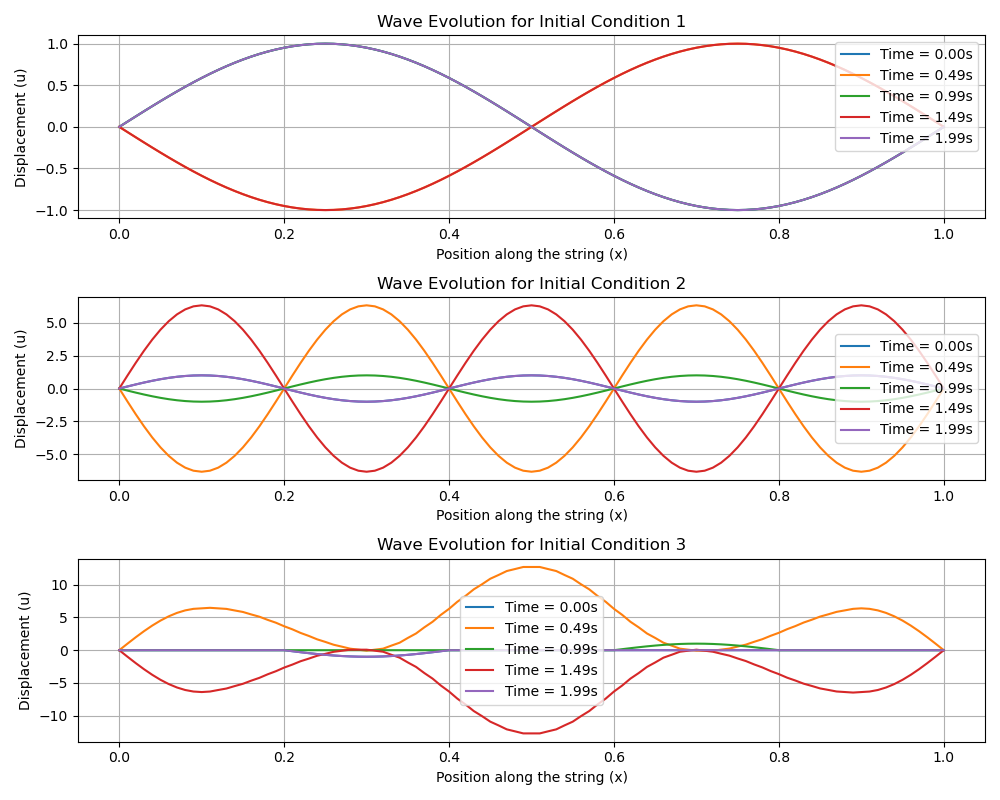
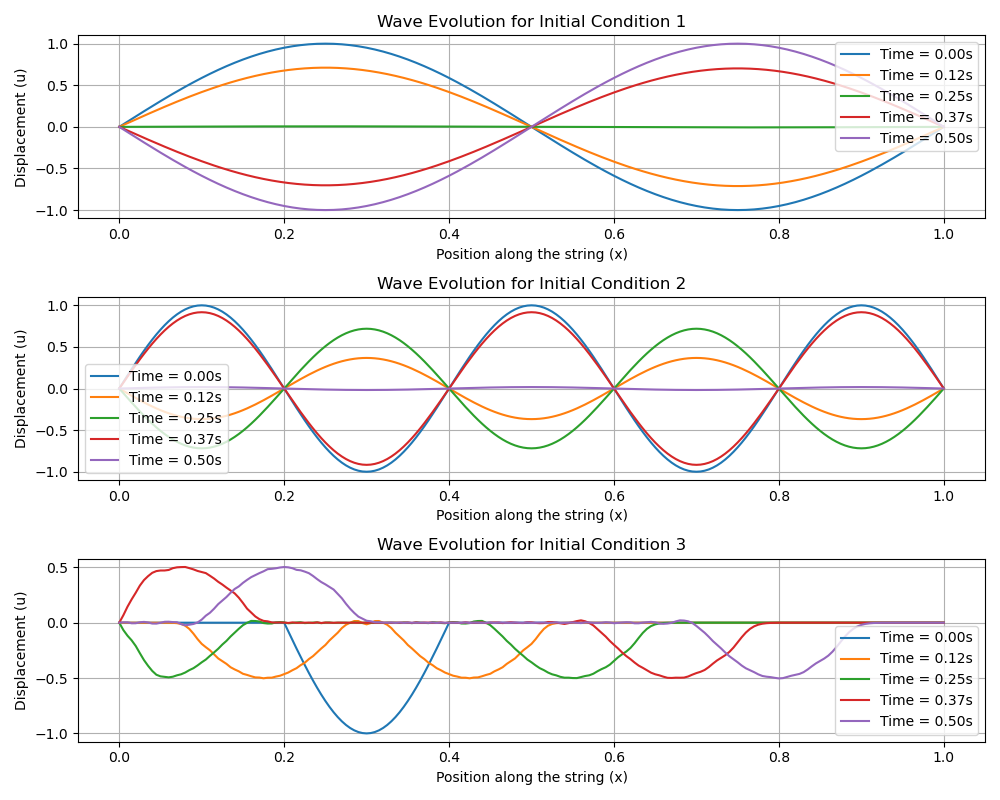
animation for string improved

diff --git a/src/vib_string.py b/src/vib_string.py
@@ -5,122 +5,105 @@ from numba import jit
 
 # Parameters
 L = 1.0  # Length of string
-N = 100  # Number of spatial points
+N = 200  # Number of spatial points
 c = 1.0  # Wave speed
-T = 2.0  # Total simulation time
-
+T = 0.5  # Total simulation time
 dx = L / N
-dt = 0.01
+dt = 0.001
 num_steps = int(T / dt)
 
 u = np.zeros((N + 1, 3))  # Three time layers (n-1, n, n+1)
 x = np.linspace(0, L, N + 1)
 
-
 def init_con_1(x):
-    """Initial condition 1: Sine wave with frequency 1."""
     return np.sin(2 * np.pi * x)
 
-
 def init_con_2(x):
-    """Initial condition 2: Sine wave with frequency 2.5."""
     return np.sin(5 * np.pi * x)
 
-
 def init_con_3(x):
-    """Initial condition 3: Sine wave in the range [1/5, 2/5]."""
     a = np.zeros_like(x)
-    mask = (1 / 5 <= x) & (x <= 2 / 5)  # Boolean mask for valid x values
-    a[mask] = np.sin(5 * np.pi * x[mask])  # Apply sine only where mask is True
+    mask = (1 / 5 <= x) & (x <= 2 / 5)
+    a[mask] = np.sin(5 * np.pi * x[mask])
     return a
 
-
 @jit(nopython=True)
-def time_stepping(u, c, dt, dx, initial_condition, num_steps):
-    """Perform time-stepping for the wave equation."""
+def time_stepping(u, c, dt, dx, initial_condition, num_steps, boundary='dirichlet'):
+    """Perform time-stepping with proper initialization."""
     u[:, 0] = initial_condition
-    history = np.zeros((N + 1, num_steps))  # Shape: (N + 1, num_steps)
+    u[:, 1] = initial_condition.copy()
+    
+    # Compute first step explicitly
+    for j in range(1, N):
+        u[j, 1] = u[j, 0] + 0.5 * ((c * dt / dx) ** 2) * (u[j + 1, 0] - 2 * u[j, 0] + u[j - 1, 0])
+    
+    history = np.zeros((N + 1, num_steps))
     history[:, 0] = u[:, 0]
-
-    for step in range(1, num_steps):
-        for j in range(1, N):  # Start from 1 to N-1 to avoid boundary issues
-            u[j, 2] = (2 * u[j, 1] - u[j, 0] +
-                       (c * dt / dx) ** 2 * (u[j + 1, 1] - 2 * u[j, 1] + u[j - 1, 1]))
-
-        u[0, 2] = 0  # Boundary condition at x=0
-        u[N, 2] = 0  # Boundary condition at x=L
-
+    history[:, 1] = u[:, 1]
+    
+    for step in range(2, num_steps):
+        for j in range(1, N):
+            u[j, 2] = (2 * u[j, 1] - u[j, 0] + (c * dt / dx) ** 2 * (u[j + 1, 1] - 2 * u[j, 1] + u[j - 1, 1]))
+        
+        if boundary == 'dirichlet':
+            u[0, 2] = 0
+            u[N, 2] = 0
+        elif boundary == 'neumann':
+            u[0, 2] = u[1, 2]  # Free end at x=0
+            u[N, 2] = u[N - 1, 2]  # Free end at x=L
+        
         u[:, 0] = u[:, 1]
         u[:, 1] = u[:, 2]
-
         history[:, step] = u[:, 1]
-
-    return history  # Return the complete history of states
-
+    
+    return history
 
 def run_simulation(u, x, c, dt, dx, init_cons, num_steps):
-    """Run the simulation with different initial conditions."""
     results = []
     for init_con in init_cons:
-        initial_condition = init_con(x)  
-        result = time_stepping(u, c, dt, dx, initial_condition, num_steps) 
+        initial_condition = init_con(x)
+        result = time_stepping(u, c, dt, dx, initial_condition, num_steps)
         results.append(result)
-
-    results = np.array(results)
-    print(results.shape)
-    return results
-
+    return np.array(results)
 
 def plot_wave_states(results, x, num_time_points=5):
-    """Plot wave states for each initial condition at evenly spaced time steps."""
     num_conditions = results.shape[0]
-    time_indices = np.linspace(0.0, results.shape[2] - 1, num_time_points, dtype=int)  # Evenly spaced indices
-
+    time_indices = np.linspace(0, results.shape[2] - 1, num_time_points, dtype=int)
     fig, axs = plt.subplots(num_conditions, 1, figsize=(10, 8))
-
     if num_conditions == 1:
-        axs = [axs]  # Ensure axs is iterable for a single subplot
-
+        axs = [axs]
+    
     for i in range(num_conditions):
         for t_idx in time_indices:
             axs[i].plot(x, results[i, :, t_idx], label=f'Time = {t_idx * dt:.2f}s')
-
         axs[i].set_title(f'Wave Evolution for Initial Condition {i + 1}')
         axs[i].set_xlabel('Position along the string (x)')
         axs[i].set_ylabel('Displacement (u)')
         axs[i].legend()
         axs[i].grid(True)
-
+    
     plt.tight_layout()
     plt.savefig('fig/wave_evolution.png')
     plt.show()
 
-
 def animate_wave(results, x, init_condition_index, filename):
-    """Animate the wave evolution for a given initial condition."""
     fig, ax = plt.subplots(figsize=(10, 6))
     ax.set_xlim(0, x[-1])
-    ax.set_ylim(-20, 20)  # Adjust y-limits based on expected wave heights
-    ax.set_title(
-        f'Wave Evolution for Initial Condition {init_condition_index + 1}')
+    y_min, y_max = results.min(), results.max()
+    ax.set_ylim(y_min * 1.2, y_max * 1.2)
+    ax.set_title(f'Wave Evolution for Initial Condition {init_condition_index + 1}')
     ax.set_xlabel('Position along the string (x)')
     ax.set_ylabel('Displacement (u)')
-    line, = ax.plot(x, results[init_condition_index, :, 0], color='b')  # Initial plot
-
+    line, = ax.plot(x, results[init_condition_index, :, 0], color='b')
+    
     def update(frame):
         line.set_ydata(results[init_condition_index, :, frame])
         return line,
-
-    ani = animation.FuncAnimation(
-        fig, update, frames=results.shape[2], blit=True)
-
-    # Save the animation as a GIF
-    ani.save(filename.replace('.mp4', '.gif'),
-             writer='pillow', fps=30)  
-
+    
+    ani = animation.FuncAnimation(fig, update, frames=results.shape[2], blit=True, interval=1)
+    ani.save(filename.replace('.mp4', '.gif'), writer='pillow')
 
 if __name__ == "__main__":
-    # Run simulation
     init_cons = [init_con_1, init_con_2, init_con_3]
     results = run_simulation(u, x, c, dt, dx, init_cons, num_steps)
     plot_wave_states(results, x)

diff --git a/src/gauss-seidel.py b/src/gauss-seidel.py
@@ -42,7 +42,7 @@ def gauss_seidel_simulation(grid: np.ndarray, max_iter: int, tol: float, N: int)
             # Ensure periodicity for the x-boundary (rightmost column)
             grid[i, N] = grid[i, 0]
 
-        # Reapply fixed y-boundary conditions
+        # Apply fixed y-boundary conditions
         grid[0, :] = 0.0       
         grid[N, :] = 1.0       
 
